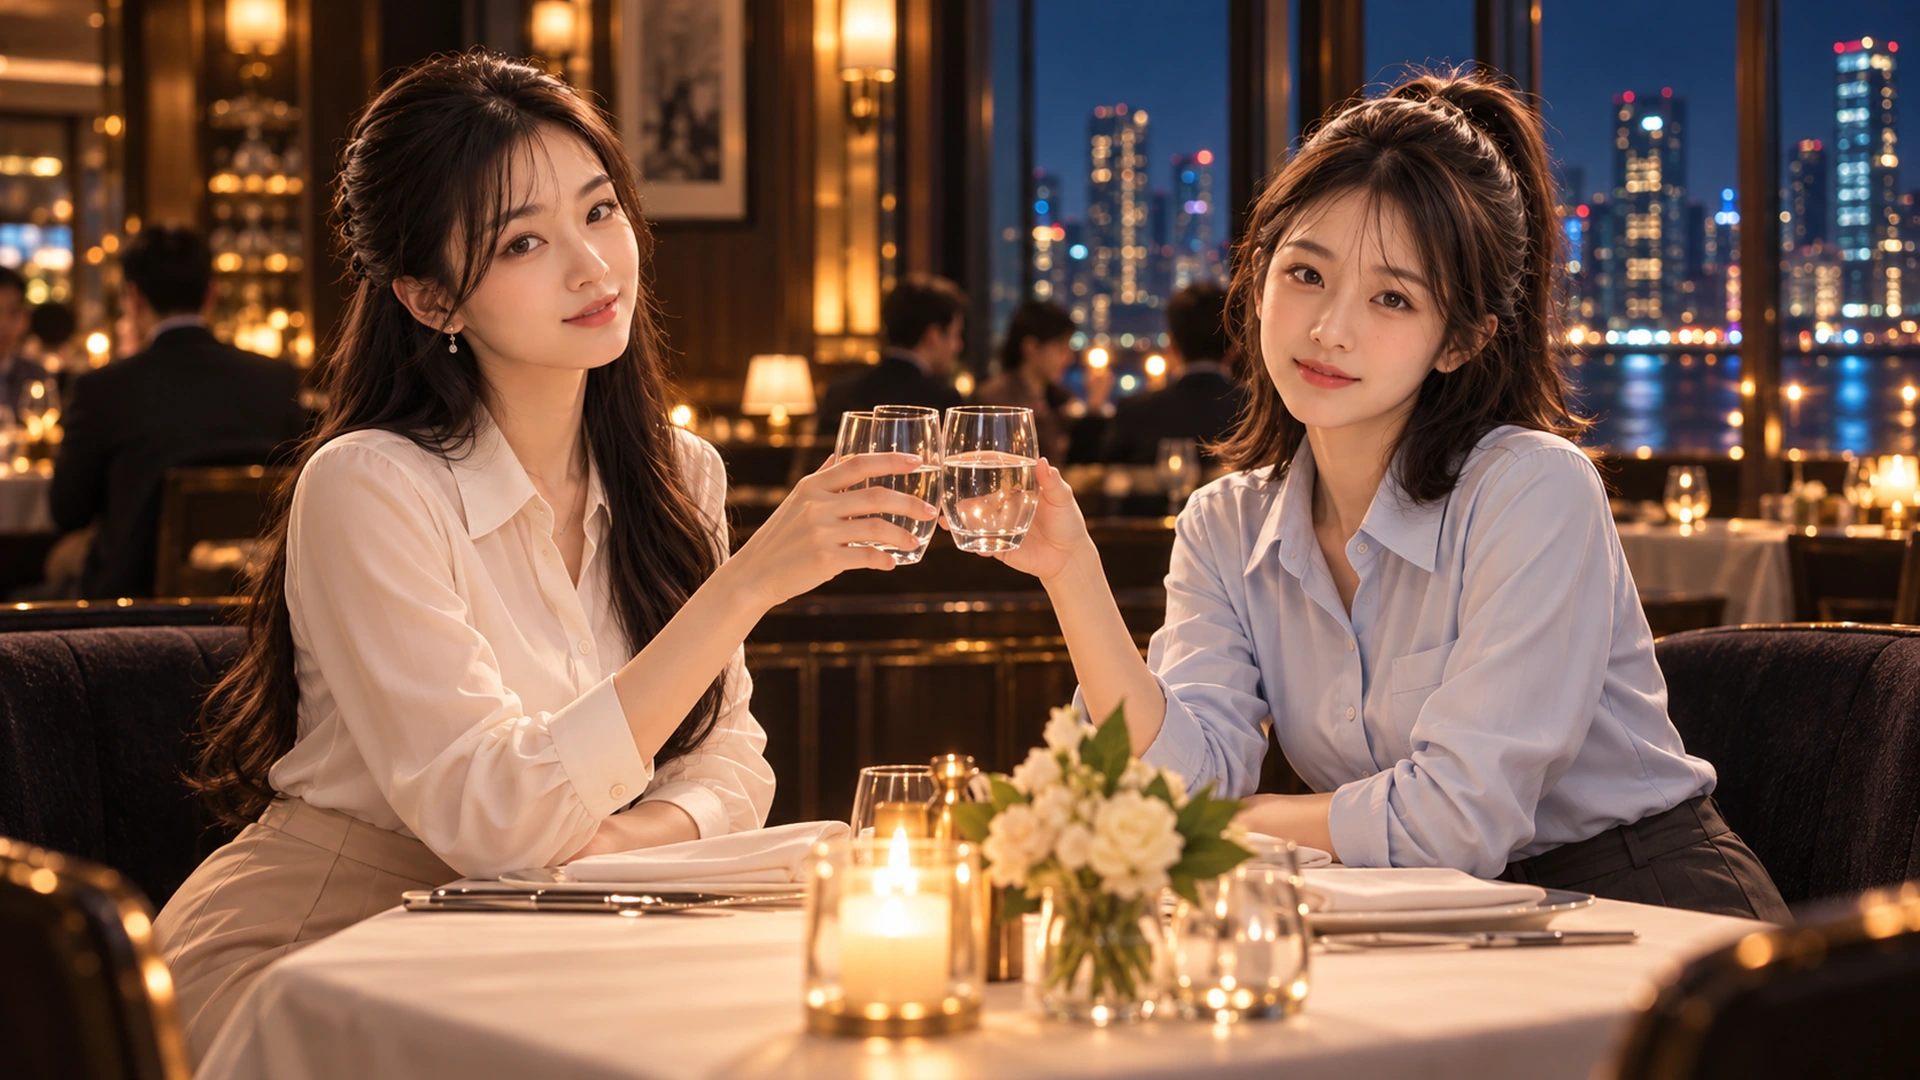
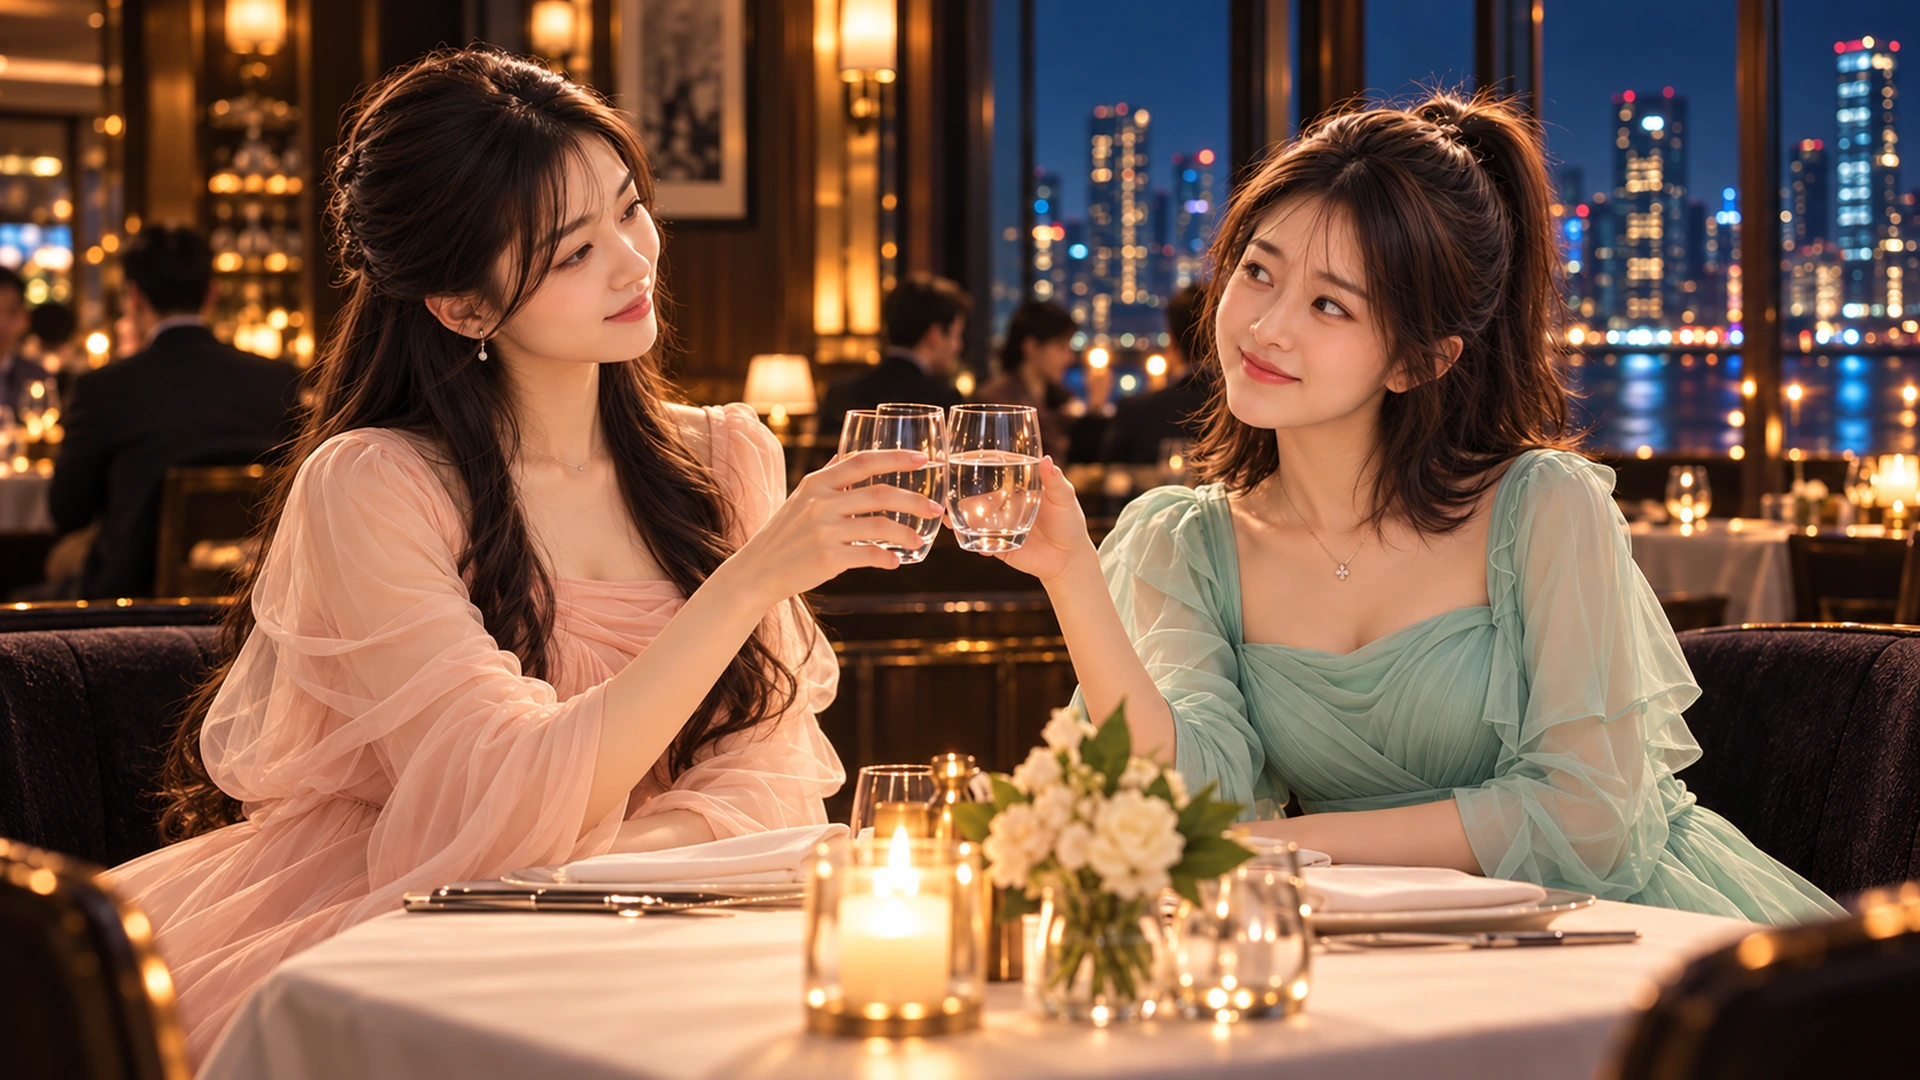
fix(assets): refine Huyen identity and dinner CG wardrobe

diff --git a/Specs/tam_c01_assets.md b/Specs/tam_c01_assets.md
@@ -10,8 +10,9 @@ Use `game/images/characters/{tam,huyen,hoang}/expressions/*_neutral.webp` as
 the respective identity references, never interchangeable faces. Tam has long
 half-up dark hair; Huyen has shoulder-length dark hair with a loose half-up
 ponytail and wispy bangs. Tam wears a white office blouse and beige skirt;
-Huyen wears a powder-blue collared shirt and charcoal trousers throughout the
-interview day and dinner. Hoang wears a dark navy blazer over charcoal shirt.
+Huyen wears a powder-blue collared shirt and charcoal trousers during the
+interview day. For dinner, Tam changes into a pale peach-pink chiffon dress and
+Huyen into a light jade-green dress. Hoang wears a dark navy blazer over charcoal shirt.
 
 Style reference: `game/images/assets/cg/cg_tam_company_anniversary_party_01.webp`.
 Keep its semi-realistic natural rendering, not the party dress. Full-bleed 16:9,
@@ -26,7 +27,7 @@ interviewers and background extras have occluded or out-of-focus faces.
 | `collar_coffee` | Candid medium two-shot at Tam's front door. Tam left gently straightens Huyen's crooked collar; Huyen right holds two plain coffee cups in a cardboard carrier. Warm morning rim light, beige/wood/green apartment decor. | Collar adjustment through their teasing exchange; return to living room before coffee is placed on table. |
 | `interview_portfolio` | From the panel side of the long wood table, Tam clearly presents an open portfolio. Exactly three anonymous interviewers frame her in soft foreground: two women and one man. Glass of water to her right, pen parallel to paper. Soft city-window daylight, controlled nervousness. Quân is absent. | Perfect and pass presentation labels after the ordering minigame. Skip retains the interview-room background. Restore room after the minigame returns. |
 | `offer_hug` | Huyen leans across to hug Tam on lobby seating, both laughing in relief. Distinct recognizable faces, phone face-down on Tam's lap, portfolio beside seat. Candid diagonal medium two-shot, warm midday window light and marble lobby. | Common hug before all result-response choices; restore lobby before menu. |
-| `celebration_toast` | Tam left and Huyen right gently touch stemless water glasses at chest height. Small white-tablecloth table, foreground candle bokeh, golden restaurant light against blue city windows. Same office clothes, friendship celebration. | First clink of glasses, before Hoang introduction. |
+| `celebration_toast` | Tam left and Huyen right gently touch water glasses at chest height, looking into each other's eyes. Tam wears pale peach-pink chiffon; Huyen wears light jade green. Small white-tablecloth table, foreground candle bokeh, golden restaurant light against blue city windows, friendship celebration. | First clink of glasses, before Hoang introduction. |
 | `hoang_window` | Hoang alone beside the restaurant window, quiet reserved expression, gazing toward the city. 85mm three-quarter view, subject on right with negative space left, amber sidelight and blue rim. Hand beside wine glass, almost untouched dinner. | Establishing shot before he looks toward the women; return to restaurant background before his head turn and all notice-choice branches. |
 
 Setting references under `game/images/assets/bg/`: `bg_tam_living_room_morning`,
@@ -43,6 +44,27 @@ the face, pose, framing and lighting were preserved. Final generation ID:
 `967225af-19ee-4d16-a44d-7cd861af0d82`.
 
 ## Validation
+
+### Identity and dinner revisions (2026-10-20)
+
+Built-in ImageGen edit prompts used the original scene as the edit target and
+the character portraits as identity references. The approved collar revision
+(`bedf3bc1-310e-433f-9f0e-76e5693bd9ff`) corrects Huyen's compact rounded face,
+short soft chin, natural small eyes and lifted inner brows while retaining the
+morning wardrobe and collar-adjustment staging.
+
+The dinner revision (`cf121958-4a8d-4da3-a9eb-3381240b7c7d`) uses that approved
+Huyen revision plus Huyen's smiling portrait and Tam's neutral portrait.
+Prompt: preserve the restaurant, lighting and clinking water glasses; have both
+women exchange warm smiles with mutual eye contact, neither looking at camera;
+replace Tam's office outfit with an elegant pale peach-pink chiffon dress and
+Huyen's with a bright light jade-green dress; preserve distinct identities,
+semi-realistic rendering, wide framing and no text or watermark.
+
+Both replacements were visually inspected and decoded as opaque 1920×1080
+WebP (quality 94, Lanczos fit). They replace the existing asset paths, so no
+script or translation changes are required. The playthrough results below
+describe the original integration run, before these image-only revisions.
 
 Run the opening story suite with a separate save directory:
 
